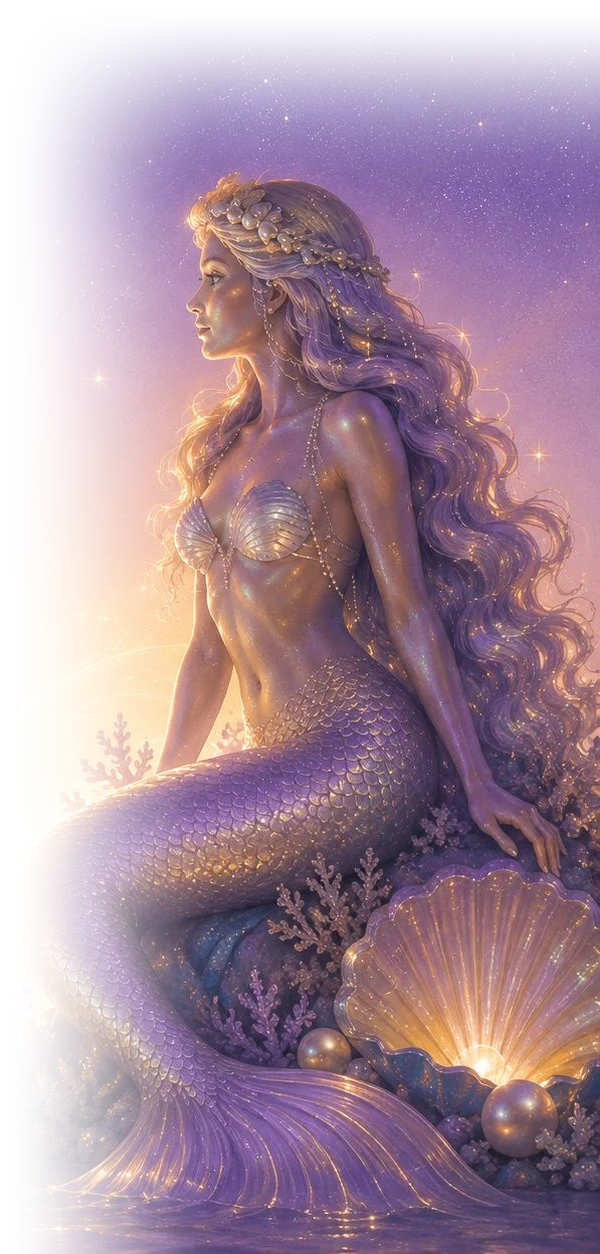
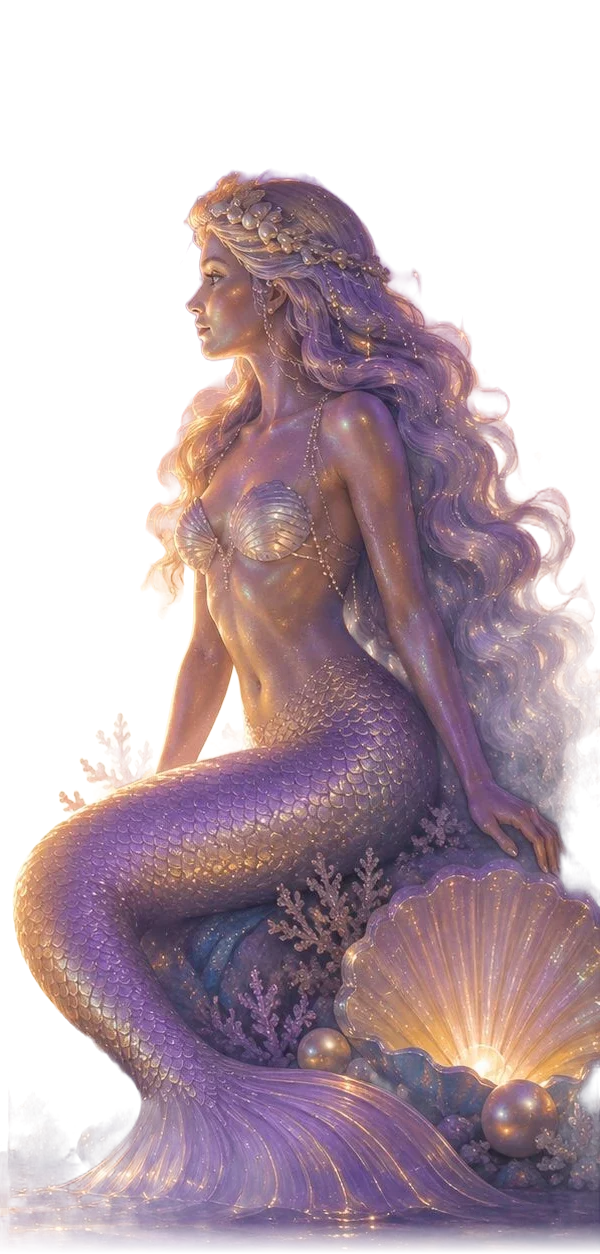
Sereias do topo recortadas de verdade (sem o painel do fundo, cauda inteira, na frente do mar); uma sereia de areia centralizada no celular

diff --git a/src/app/globals.css b/src/app/globals.css
@@ -2542,8 +2542,9 @@ main { overflow-x: clip; }
 /* sereias integradas ao mar: a base da pedra se dissolve na água e o reflexo aparece logo abaixo
    (antes terminavam num corte reto acima da água e pareciam recortes soltos) */
 .hero-mermaid {
-  -webkit-mask-image: linear-gradient(0deg, transparent 0%, rgb(0 0 0 / 0.55) 7%, #000 17%);
-  mask-image: linear-gradient(0deg, transparent 0%, rgb(0 0 0 / 0.55) 7%, #000 17%);
+  /* só um fio de esfumado na base (o resto vem do próprio webp): a cauda fica inteira */
+  -webkit-mask-image: none;
+  mask-image: none;
   -webkit-box-reflect: below -0.35rem linear-gradient(transparent 62%, rgb(0 0 0 / 0.22));
   bottom: clamp(1.75rem, 5vw, 3.75rem);
 }
@@ -2551,20 +2552,23 @@ main { overflow-x: clip; }
   .hero-mermaid { bottom: calc(4.5rem - 3svh); }
 }
 
-/* celular/tablet: as sereias de areia aparecem no alto da seção de ingressos, uma de cada lado, como
-   esculturas na areia emoldurando o título (antes ficavam escondidas abaixo de 1024 px) */
+/* celular/tablet: uma sereia de areia só, centralizada, como escultura de fundo atrás dos formulários
+   de compra (as duas nas laterais ficavam apertadas) */
 @media (max-width: 1023px) {
-  .ingressos-sand.with-mermaid > .side-mermaid {
+  .ingressos-sand.with-mermaid > .side-mermaid.is-right { display: none; }
+  .ingressos-sand.with-mermaid > .side-mermaid.is-left {
     display: block;
-    top: 5.5rem;
-    translate: none;
-    height: clamp(14rem, 62vw, 22rem);
-    opacity: 1;
-    -webkit-mask-image: linear-gradient(180deg, transparent, #000 14%, #000 82%, transparent);
-    mask-image: linear-gradient(180deg, transparent, #000 14%, #000 82%, transparent);
+    top: 9rem;
+    left: 50%;
+    right: auto;
+    translate: -50% 0;
+    height: min(150vw, 44rem);
+    opacity: 0.55;
+    filter: none;
+    -webkit-mask-image: linear-gradient(180deg, transparent, #000 12%, #000 75%, transparent);
+    mask-image: linear-gradient(180deg, transparent, #000 12%, #000 75%, transparent);
   }
-  .ingressos-sand .side-mermaid.is-left { left: -3vw; }
-  .ingressos-sand .side-mermaid.is-right { right: -3vw; }
-  /* o título desce para baixo das esculturas */
-  .ingressos-sand.with-mermaid > div:last-of-type { padding-top: calc(5.5rem + clamp(14rem, 62vw, 22rem) - 0.5rem); }
 }
+
+/* sereias do topo na frente da água (a pedra apoia no mar, com reflexo), em todas as telas */
+.hero-mermaid { z-index: 4; }

diff --git a/scripts/sereias-recorte.py b/scripts/sereias-recorte.py
@@ -1,0 +1,25 @@
+"""Recorte das sereias do topo (public/2027/sereia-s{e,d}-inteira.webp) a partir dos PNGs do kit.
+
+A silhueta (sereia + pedra + concha + corais) vem de uma máscara do rembg (modelo isnet-general-use,
+rodado à parte: `rembg i -m isnet-general-use -om rgb.png mask-<se|sd>.png`). O céu roxo da arte original sai
+inteiro: elas ficam direto sobre o céu e o mar do site, sem o "painel" retangular. Base com esfumado curto.
+Uso: python -I scripts/sereias-recorte.py <pasta-dos-png-e-mascaras> <pasta-de-saida>
+"""
+import sys
+from pathlib import Path
+
+import numpy as np
+from PIL import Image
+
+src, out = Path(sys.argv[1]), Path(sys.argv[2])
+
+for n in ("se", "sd"):
+    rgb = np.asarray(Image.open(src / f"sereia-{n}-inteira.png").convert("RGB"))
+    m = np.asarray(Image.open(src / f"mask-{n}.png").convert("L")).astype(float) / 255
+    h = m.shape[0]
+    m = np.clip((m - 0.08) / 0.92, 0, 1)  # tira a névoa fraca em volta (halo do fundo antigo)
+    y = np.linspace(0, 1, h)[:, None]
+    base = np.clip((1 - y) / 0.025, 0, 1)  # só um fio na base, onde a pedra encontra a água
+    a = m * base
+    Image.fromarray(np.dstack([rgb, (a * 255).astype(np.uint8)])).save(out / f"sereia-{n}-inteira.webp", quality=86, method=6)
+    print(n, rgb.shape)
